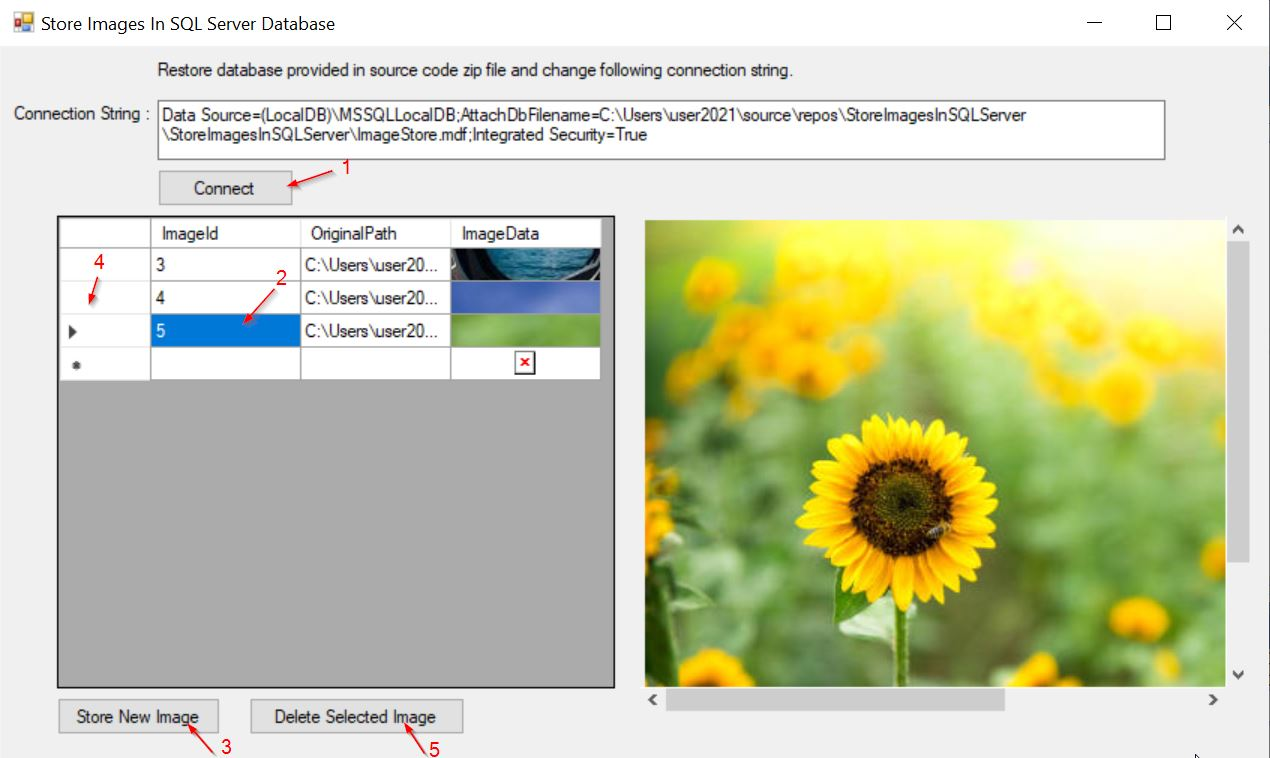
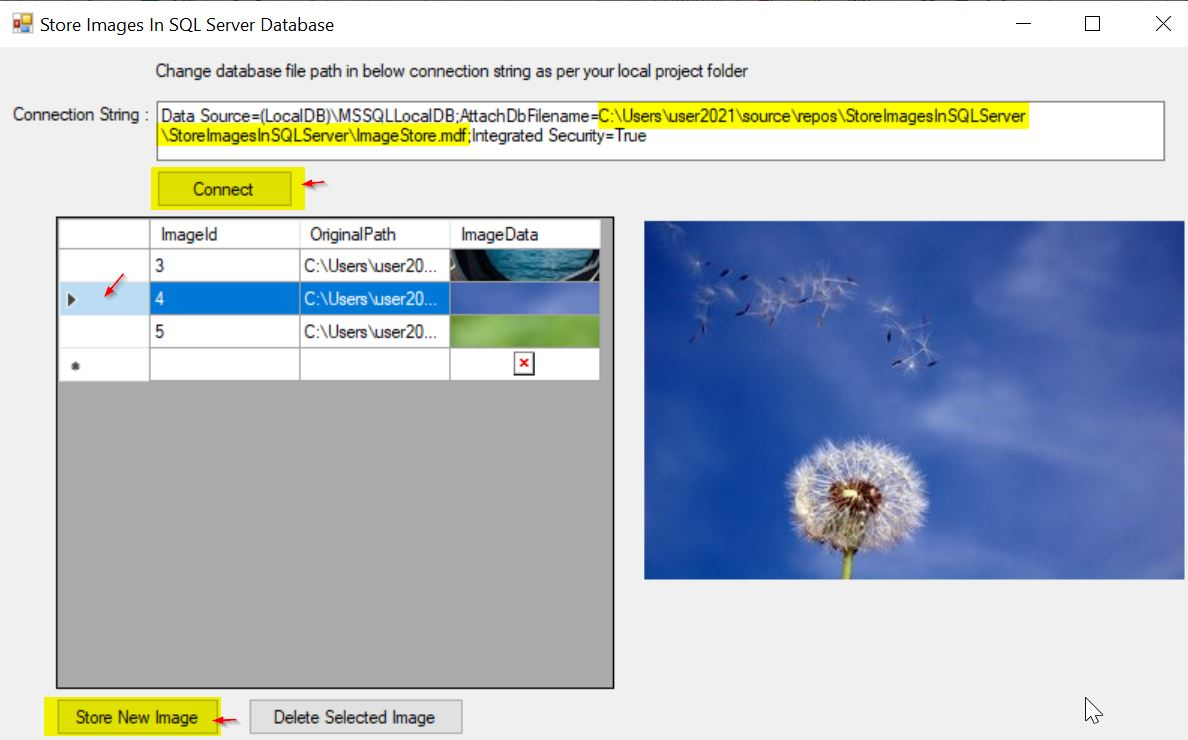
Stretch Image in main form

diff --git a/StoreImagesInSQLServer/frmImagesStore.Designer.cs b/StoreImagesInSQLServer/frmImagesStore.Designer.cs
@@ -77,16 +77,17 @@ namespace StoreImagesInSQLServer
             this.label2.AutoSize = true;
             this.label2.Location = new System.Drawing.Point(102, 9);
             this.label2.Name = "label2";
-            this.label2.Size = new System.Drawing.Size(257, 13);
+            this.label2.Size = new System.Drawing.Size(401, 13);
             this.label2.TabIndex = 3;
-            this.label2.Text = "Change database file path in below connection string";
+            this.label2.Text = "Change database file path in below connection string as per your local project fo" +
+    "lder";
             // 
             // pictureBox1
             // 
             this.pictureBox1.Location = new System.Drawing.Point(3, 3);
             this.pictureBox1.Name = "pictureBox1";
             this.pictureBox1.Size = new System.Drawing.Size(389, 315);
-            this.pictureBox1.SizeMode = System.Windows.Forms.PictureBoxSizeMode.AutoSize;
+            this.pictureBox1.SizeMode = System.Windows.Forms.PictureBoxSizeMode.StretchImage;
             this.pictureBox1.TabIndex = 4;
             this.pictureBox1.TabStop = false;
             // 
@@ -148,7 +149,6 @@ namespace StoreImagesInSQLServer
             ((System.ComponentModel.ISupportInitialize)(this.dataGridView1)).EndInit();
             ((System.ComponentModel.ISupportInitialize)(this.pictureBox1)).EndInit();
             this.panel1.ResumeLayout(false);
-            this.panel1.PerformLayout();
             this.ResumeLayout(false);
             this.PerformLayout();
 
